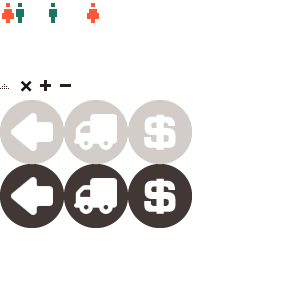
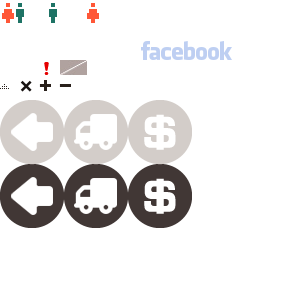
facebook login and new registration

Changed region(s): [[0.45, 0.12, 0.78, 0.21], [0.15, 0.18, 0.3, 0.27]]

diff --git a/member/templates/member/login.html b/member/templates/member/login.html
@@ -2,40 +2,32 @@
 {% load i18n %}
 {% block content %}
 <div class="inside_itembox itemopen center">
-    <h1>{% trans 'Sign In' %}</h1>
-    <div class="content"> 
-        <div class="content_box left">
-            <h2>{% trans 'I AM A REGISTERED CUSTOMER' %}</h2>
-            <h3><small>{% trans 'Please enter your email and password below to log into EMPOR' %}.</small></h3>
-            <form id="login-form" method="post" class="form-inline">
-                    {% csrf_token %}
-                {{ form.errors }}
-                {% for field in form %}
-                {% if field.name == 'remember_me' %}
-                <div class="control-group">
-                    <div class="controls">
-                        {{ field }}{{ field.label }} │ <a href="forgot.html">忘記密碼 ?</a>
-                    </div>
-                 </div> 
-                {% else %}
-                 <div class="control-group">
-                   <label class="control-label">{{ field.label }}</label>
-                   <div class="controls">{{ field }}</div>
-                 </div>
-                {% endif %}
-                {% endfor %}
-
-                <div class="form-actions">
-                    <input type="submit" class="button" value="{% trans 'Log In' %}" />
-                    <a href="#" class="button button_fb">Log In with Facebook</a>
-                </div>
-            </form>
-        </div>
-        <div class="content_box right">
-            <h2>{% trans 'I AM A NEW CUSTOMER' %}</h2>
-            <h3><small>{% trans 'If you are still not an EMPOR, please join us.' %}.</small></h3>
-            <div class="form-actions"><a href="{% url member-register %}" class="button">{% trans 'Register' %}</a></div>
-        </div>
+    <h1>Sign In</h1>
+    <div class="form-actions">
+        <a href="javascript:fb_login();" class="button button_fb button_l">用<i class="m_icon-fbbtn"></i>帳號登入</a>
     </div>
+    <div class="intermission">{% trans 'OR' %}</div>
+    <form id="login-form" method="post" class="form-inline offset2 span6">
+        {% csrf_token %}
+        {{ form.errors }}
+        {% for field in form %}
+        {% if field.name == 'remember_me' %}
+        <div class="control-group">
+            <div class="controls">
+                {{ field }}{{ field.label }} │ <a href="{% url member-register %}">{% trans 'Join Us' %}</a> | <a href="forgot.html">忘記密碼 ?</a> 
+            </div>
+         </div> 
+        {% else %}
+         <div class="control-group">
+           <label class="control-label">{{ field.label }}</label>
+           <div class="controls">{{ field }}</div>
+         </div>
+        {% endif %}
+        {% endfor %}
+
+        <div class="form-actions">
+            <input type="submit" class="button" value="{% trans 'Log In' %}" />
+        </div>
+    </form>
 </div>
 {% endblock %}

diff --git a/empor/templates/empor/base.html b/empor/templates/empor/base.html
@@ -17,6 +17,9 @@
     {% if flash.message %}
     <script type="text/javascript">
     var flashMessage = '{{ flash.message }}';
+    </script>
+    {% endif %}
+    <script type="text/javascript">
     function fb_login(){
         var next = window.location.href.split('?next=',2);
         if (next[1] == null){next = '{% url index %}';}
@@ -37,10 +40,10 @@
         }, {scope: 'offline_access,user_birthday,email,user_likes,user_relationships,publish_actions'});
     };
     </script>
-    {% endif %}
     {% block js %}{% endblock %}
 </head>
 <body>
+<div id="content_wrapper">
 <!-- menu_wrapper -->
 <div id="menu_wrapper" {% block menu_class %}{% endblock %}>
     <!-- logo -->
@@ -62,7 +65,7 @@
     </div>
     {% else %}
     <div class="menu_textbox b_box">
-        <a href="{% url member-login %}">{% trans 'JOIN US' %}</a> ／ <a href="{% url member-login %}">{% trans 'LOGIN' %}</a>
+        <a href="{% url member-register %}">{% trans 'JOIN US' %}</a> ／ <a href="{% url member-login %}">{% trans 'LOGIN' %}</a>
     </div>
     {% endif %}
     <!-- /menu_iconbox -->
@@ -75,18 +78,15 @@
     <!-- /menu_button -->
 </div>
 <!-- /menu_wrapper -->
-<!-- content_wrapper -->
-<div id="content_wrapper">
 {% block content %}
 {% endblock %}
 </div>
-<!-- content_wrapper -->
 <div id="back-top"></div>
-<footer>
+<div id="footer">
     <a href="{% url service-faq %}"><i class="s_icon-info"></i></a>
     <a href="https://www.facebook.com/pages/EMPOR/220960498003255"><i class="s_icon-fb"></i></a>
     <div class="text">COPYRIGHT© 2012 EMPOR</div>
-</footer>
+</div>
 <div id="modal_overlay" {% if popup %}style="display:block;"{% endif %}></div>
 <div id="content_pane" {% if popup %}style="display:block;" class="itemup"{% endif %}>
     {% block popup %}{% endblock %}

diff --git a/member/templates/member/register.html b/member/templates/member/register.html
@@ -14,7 +14,11 @@ $(function() {
 {% block content %}
 <div class="inside_itembox itemopen center">
     <h1>Register</h1>
-    <form id="register-form" method="post" class="form-inline">
+    <div class="form-actions">
+        <a href="javascript:fb_login();" class="button button_fb button_l">用<i class="m_icon-fbbtn"></i>帳號登入</a>
+    </div>
+    <div class="intermission">{% trans 'OR' %}</div>
+    <form id="register-form" method="post" class="form-inline offset1 span8">
         {% csrf_token %}
         {% for field in form %}
         {% if field.name == 'billing_recipient' %}

diff --git a/member/urls.py b/member/urls.py
@@ -5,6 +5,13 @@ urlpatterns = patterns('member.views',
     url(r'^logout/$',       'logout',       name='member-logout'),
     url(r'^register/$',     'register',     name='member-register'),
     url(r'^register/complete$',     'register_complete',     name='member-register-complete'),
-    url(r'^activate/(?P<activation_code>\w+)/$',         'activate',        name='member-activate')
+    url(r'^activate/(?P<activation_code>\w+)/$',         'activate',        name='member-activate'),
+
+    url(r'facebook/verify/', 'facebook_verify', name='member-facebook-verify'),
+    url(r'facebook/connect/done/', 'facebook_connect_done', name='member-facebook-connect-done'),
+    url(r'facebook/connect/new/', 'facebook_connect_new', name='member-facebook-connect-new'),
+    url(r'facebook/connect/exist/', 'facebook_connect_exist', name='member-facebook-connect-exist'),
+    url(r'facebook/connect/', 'facebook_connect', name='member-facebook-connect'),
+    url(r'facebook/unbind/', 'facebook_unbind', name='member-facebook-unbind'),
 )
 

diff --git a/member/forms.py b/member/forms.py
@@ -89,10 +89,10 @@ class ProfileForm(forms.Form):
 
 class LoginForm(forms.Form):
     username = forms.CharField(max_length=20, label=_('Account'), 
-        widget=forms.TextInput(attrs={'class': 'input-large'}) 
+        widget=forms.TextInput(attrs={'class': 'input-xlarge'}) 
     )
     password = forms.CharField(max_length=16, widget=forms.PasswordInput(
-        attrs={'class': 'input-large'}), 
+        attrs={'class': 'input-xlarge'}), 
         label=_('password')
     )
     remember_me = forms.BooleanField(widget=forms.CheckboxInput(), required=False, label=_('Remember me'))
